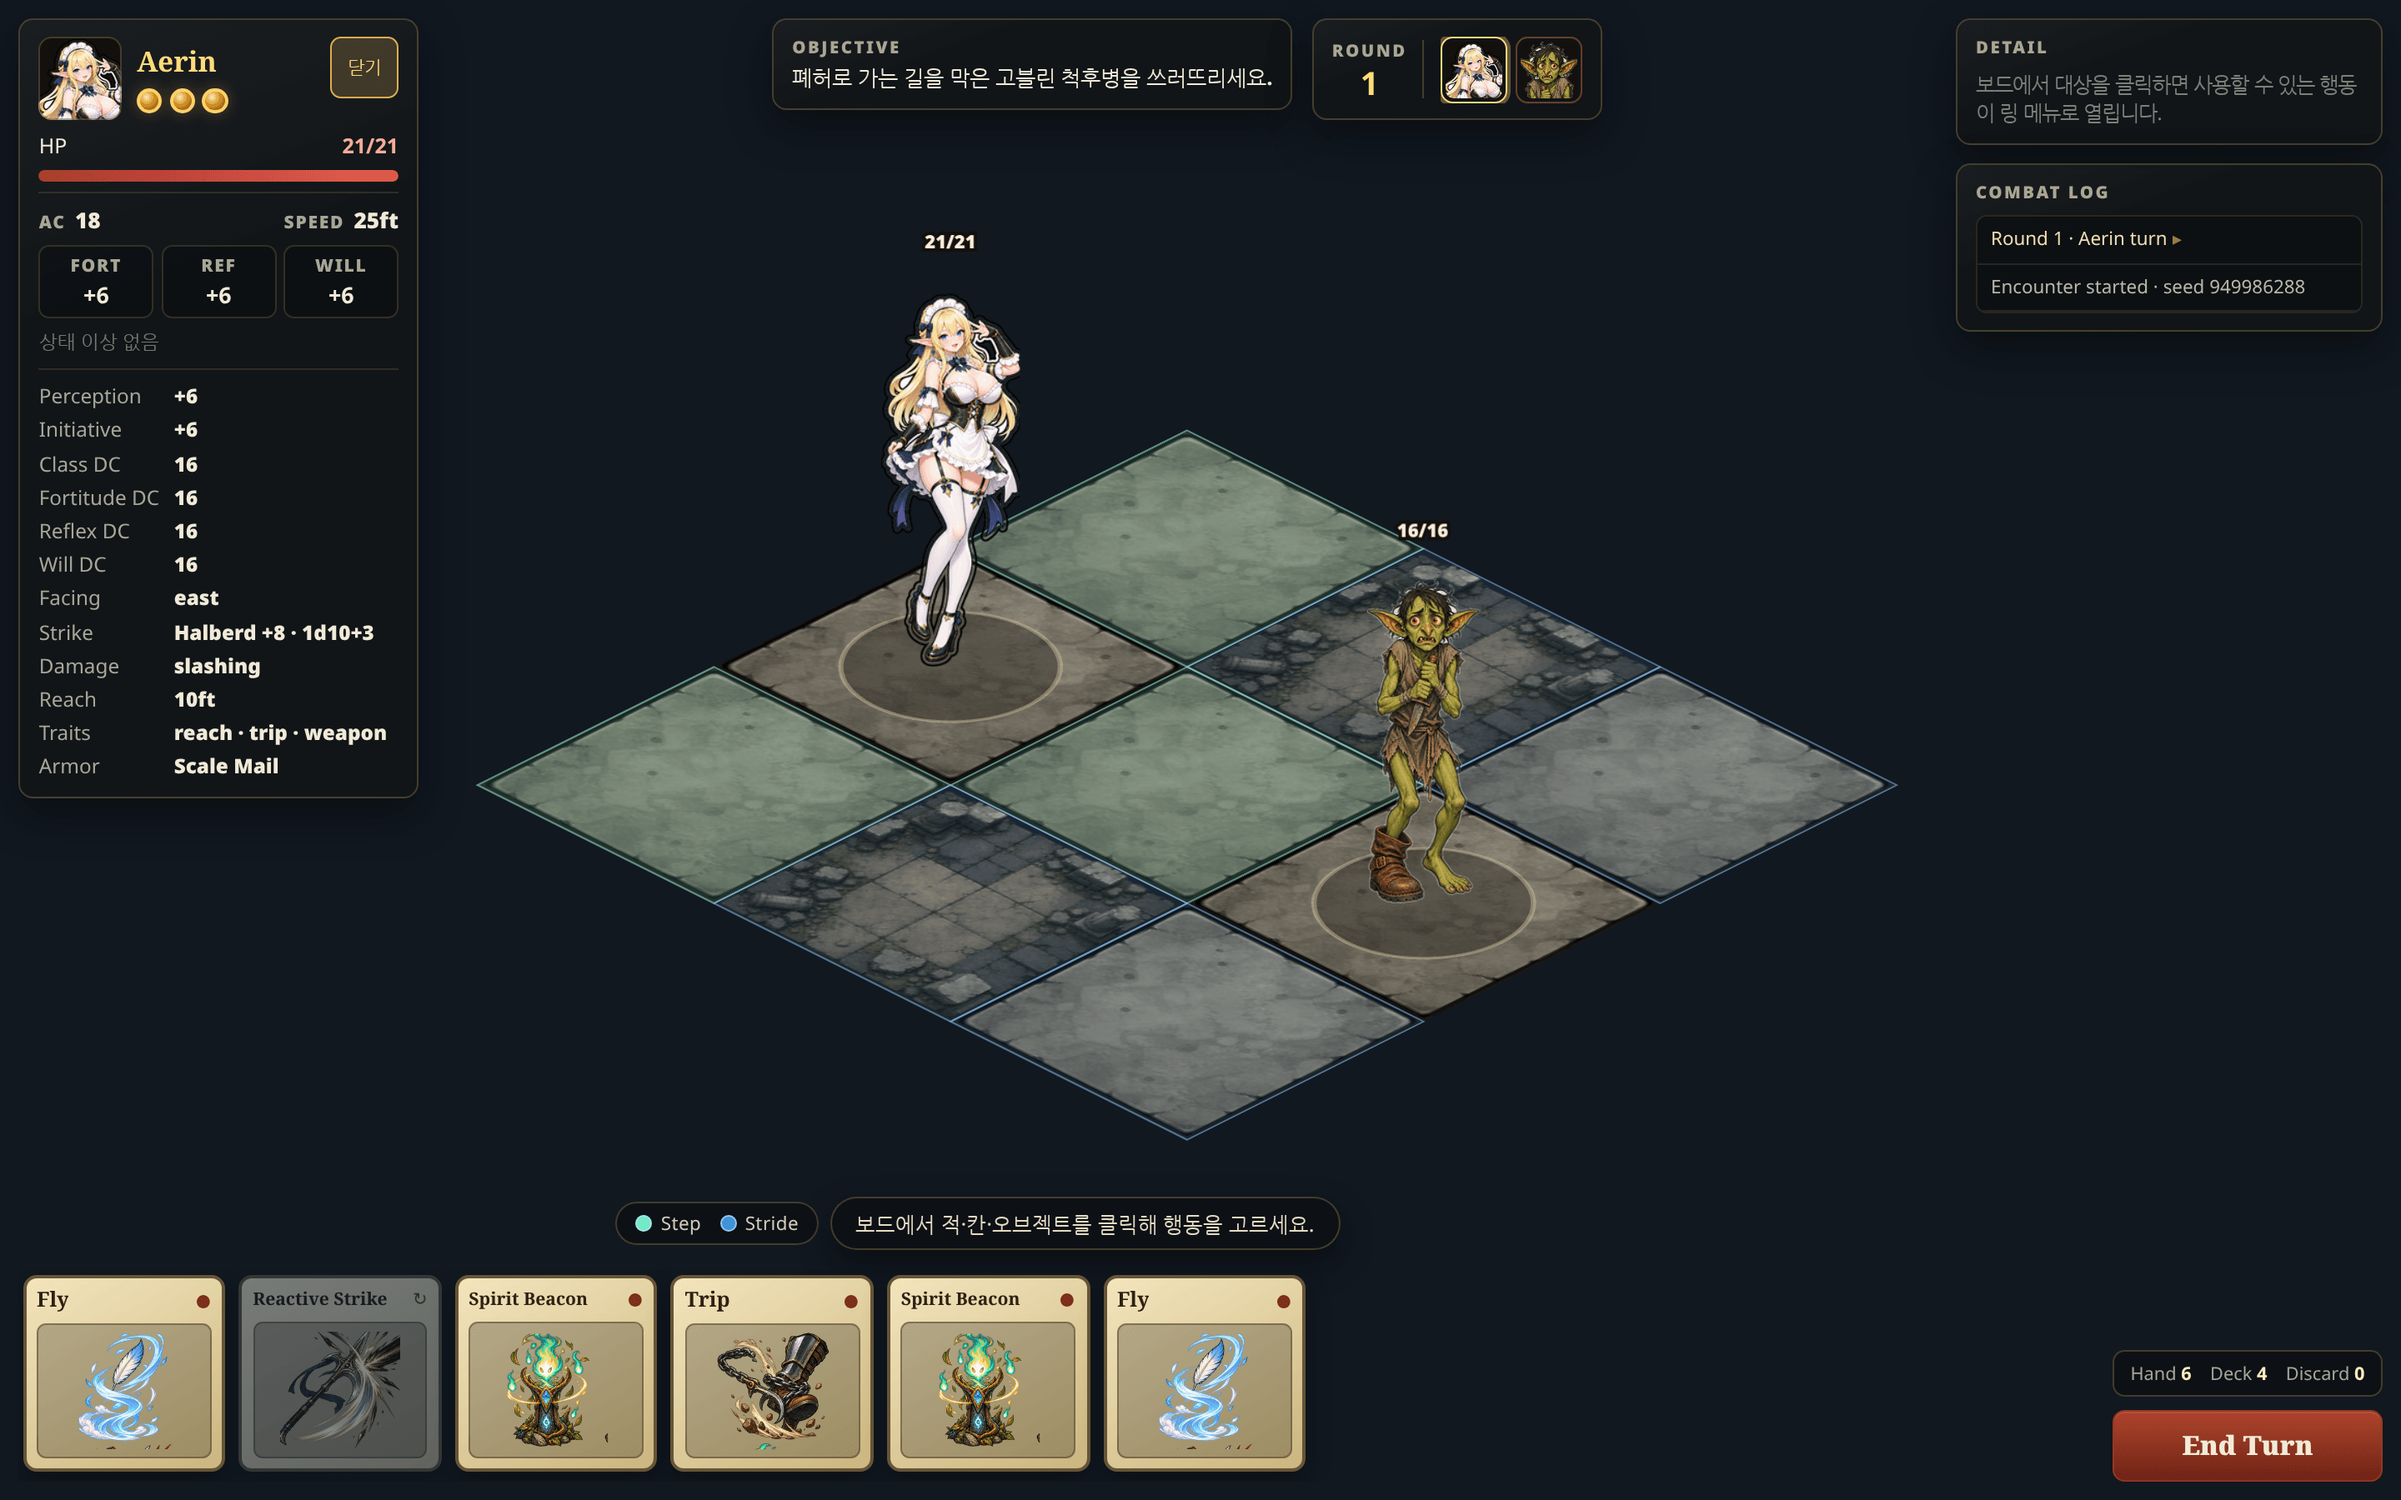
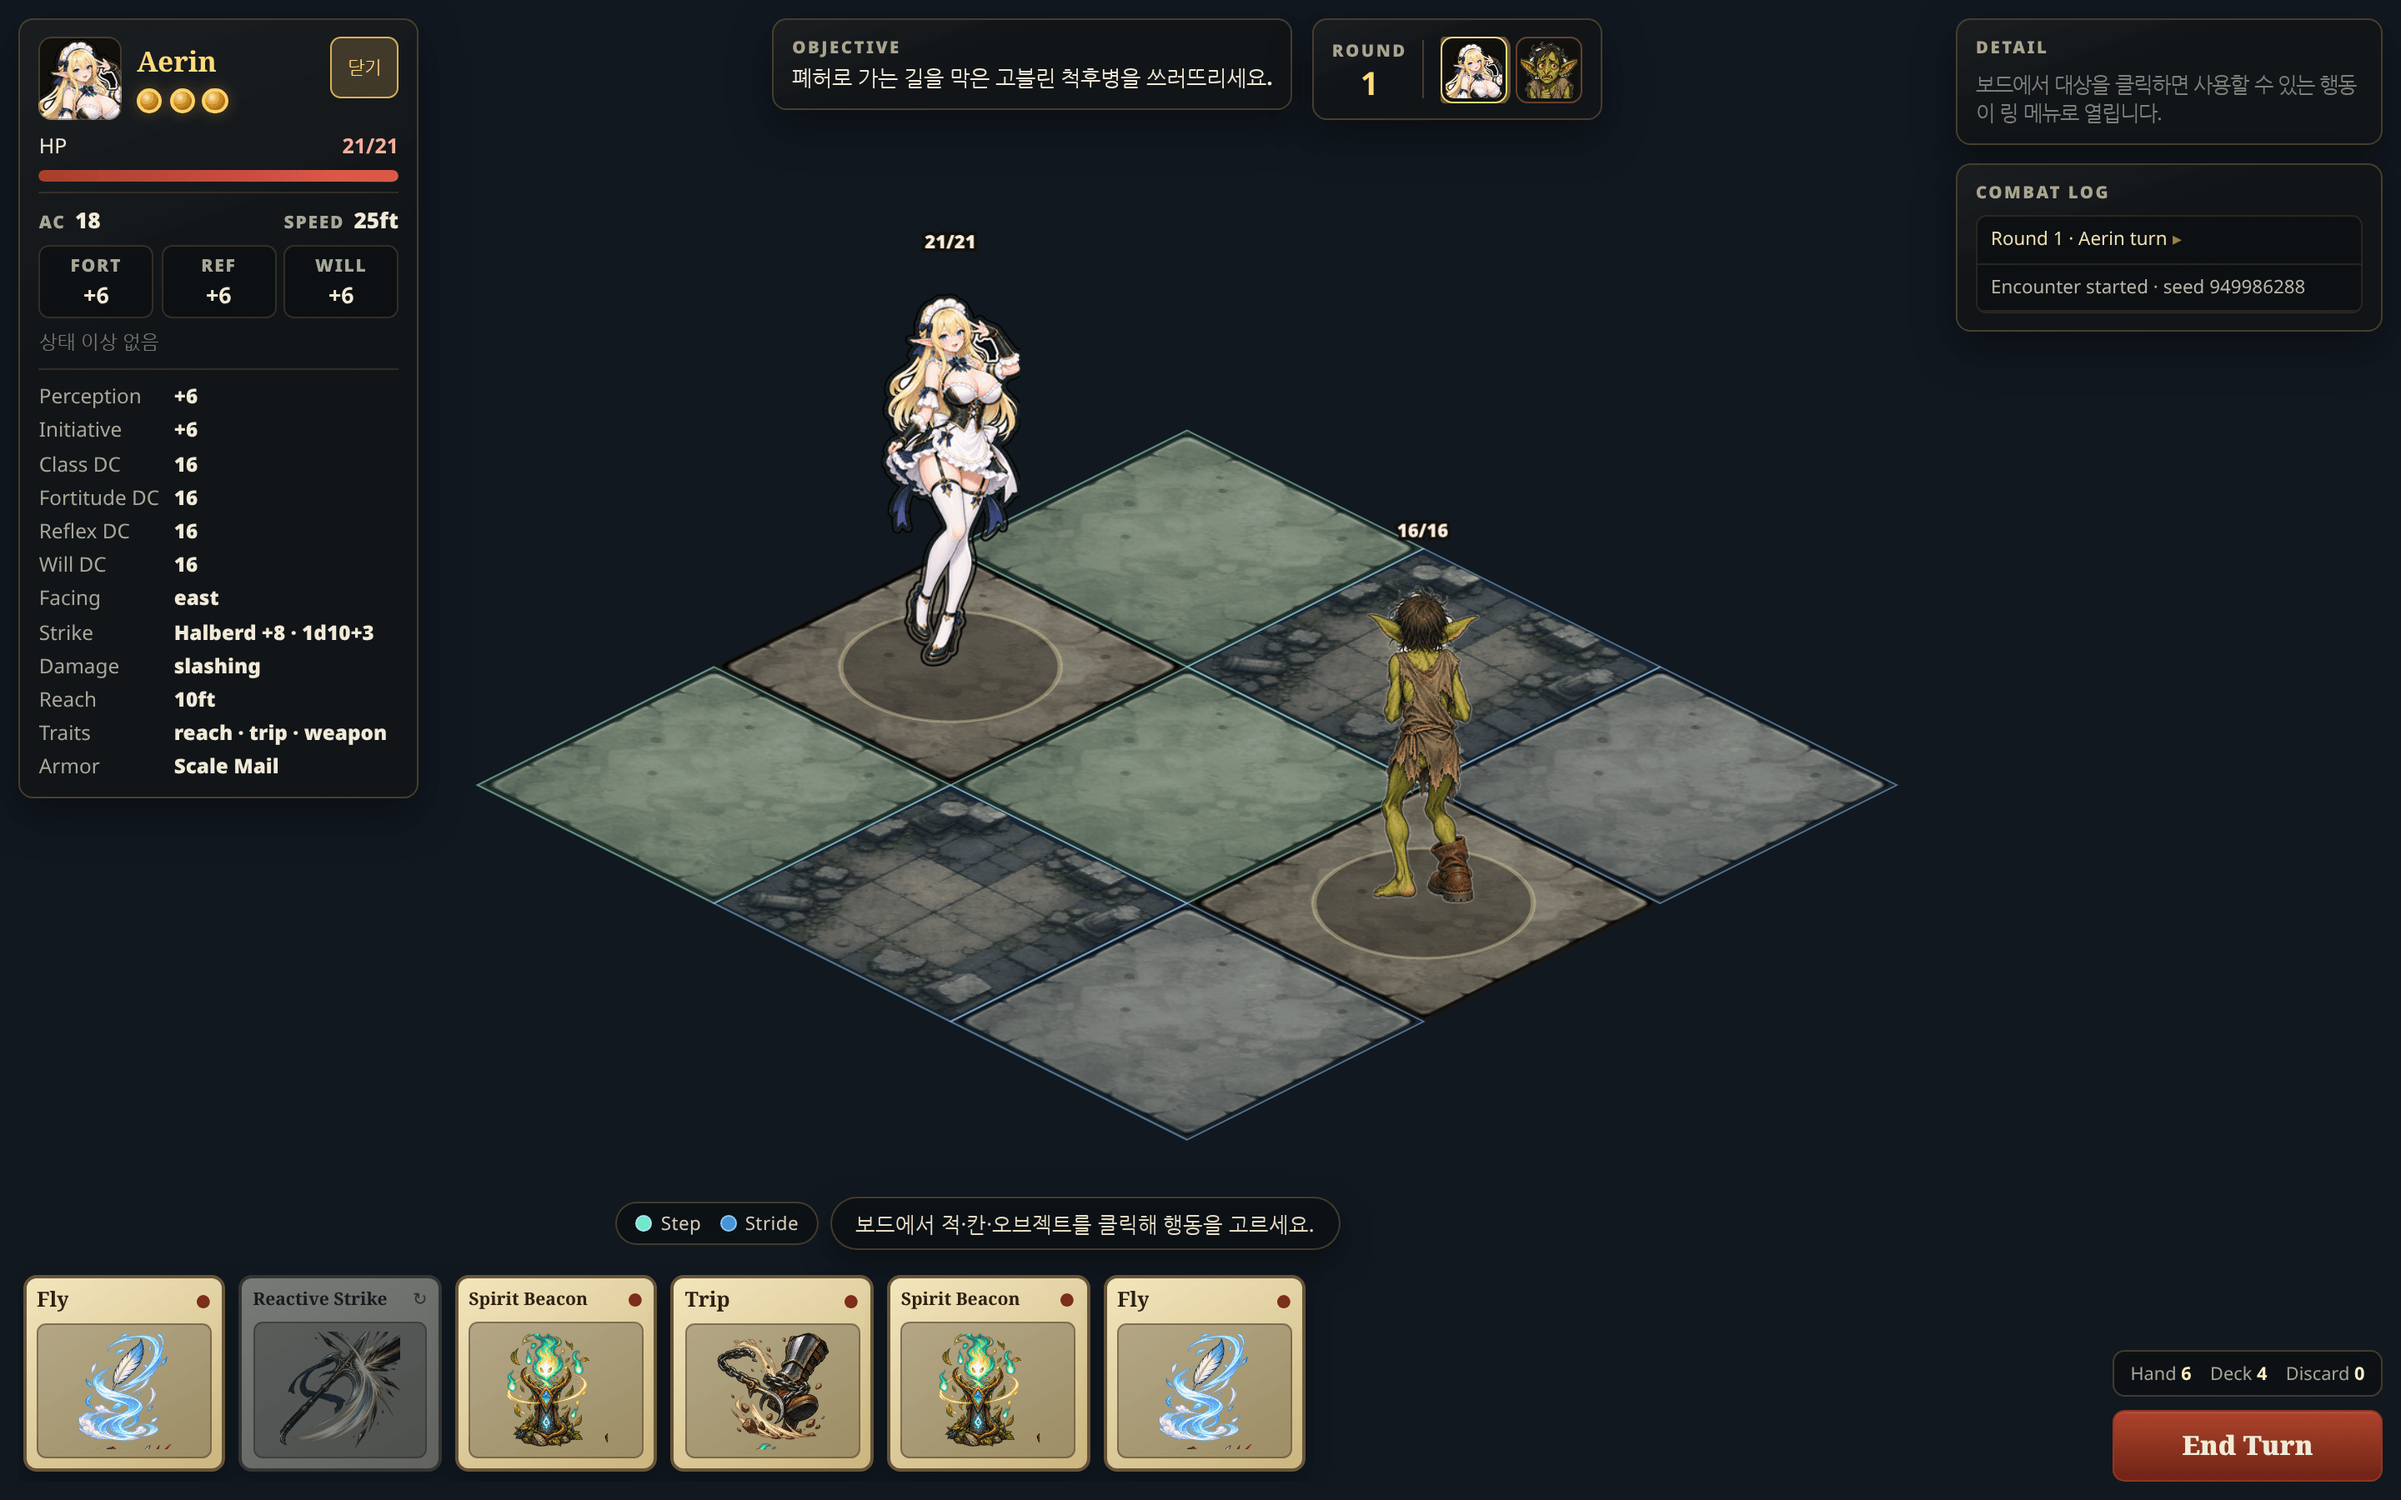
fix: pair the standee facings the way the turned board points them
The four facings were split front/back as if the camera looked straight down the
grid: north alone showed the back, and east, south and west shared the front.
On a board turned a quarter turn that is the wrong split. North leads up-right
and west up-left, so both walk away from the player; east runs down-right and
south down-left, so both come towards them. A character heading west was drawn
facing the camera while walking into the screen.

The pairs now follow the screen: north is the back and west is that mirrored,
east is the front and south is that mirrored. Mirroring still touches nothing
but the body.

Changed region(s): [[0.5625, 0.3733, 0.625, 0.6222]]

diff --git a/src/presentation/standee-facing.test.ts b/src/presentation/standee-facing.test.ts
@@ -5,18 +5,19 @@ import { facingStandee } from "./presentation-types";
 const AERIN = { front: "actor.hero.aerin.front", back: "actor.hero.aerin.back" };
 
 describe("standee facing", () => {
-  it("turns its back only for north", () => {
-    expect(facingStandee(AERIN, "north")).toEqual({ assetId: AERIN.back, flipX: false });
-    for (const direction of ["south", "east", "west"] as const) {
-      expect(facingStandee(AERIN, direction).assetId).toBe(AERIN.front);
-    }
+  it("turns its back for the two directions that lead away from the player", () => {
+    // A quarter turn puts north up-right and west up-left: both walk away, so both show
+    // the back. East and south come down the screen towards the player.
+    expect(facingStandee(AERIN, "north").assetId).toBe(AERIN.back);
+    expect(facingStandee(AERIN, "west").assetId).toBe(AERIN.back);
+    expect(facingStandee(AERIN, "east").assetId).toBe(AERIN.front);
+    expect(facingStandee(AERIN, "south").assetId).toBe(AERIN.front);
   });
 
-  it("mirrors west and leaves the authored east pose alone", () => {
-    expect(facingStandee(AERIN, "east").flipX).toBe(false);
-    expect(facingStandee(AERIN, "west").flipX).toBe(true);
-    // South is the pose the art was drawn as, so it is never mirrored either.
-    expect(facingStandee(AERIN, "south").flipX).toBe(false);
-    expect(facingStandee(AERIN, "north").flipX).toBe(false);
+  it("mirrors the second of each pair and leaves the authored pose alone", () => {
+    expect(facingStandee(AERIN, "north")).toEqual({ assetId: AERIN.back, flipX: false });
+    expect(facingStandee(AERIN, "west")).toEqual({ assetId: AERIN.back, flipX: true });
+    expect(facingStandee(AERIN, "east")).toEqual({ assetId: AERIN.front, flipX: false });
+    expect(facingStandee(AERIN, "south")).toEqual({ assetId: AERIN.front, flipX: true });
   });
 });

diff --git a/src/presentation/presentation-types.ts b/src/presentation/presentation-types.ts
@@ -126,14 +126,20 @@ export interface StandeeFacing {
 }
 
 /**
- * Four facings out of the two drawings that exist. North turns its back; south faces the
- * player. East and west share the front pose, and west is its mirror — the front art was
- * authored leaning towards the board's east side, so that is the side it keeps.
+ * Four facings out of the two drawings that exist, paired by which way they point on the
+ * turned board. A quarter turn puts north up-right and west up-left, so both face away
+ * from the player and take the back drawing; east runs down-right and south down-left,
+ * so both face towards the player and take the front. Within each pair the second is the
+ * first seen in a mirror, which is what carries the pose to the other side of the screen.
+ *
+ *   north -> back            west  -> back mirrored
+ *   east  -> front           south -> front mirrored
  *
  * Only the body is ever mirrored. A base, an HP badge or any text above a standee is
  * screen furniture and reads the same way whichever way the character looks.
  */
 export function facingStandee(visual: ActorVisualDefinition, direction: Direction): StandeeFacing {
   if (direction === "north") return { assetId: visual.back, flipX: false };
-  return { assetId: visual.front, flipX: direction === "west" };
+  if (direction === "west") return { assetId: visual.back, flipX: true };
+  return { assetId: visual.front, flipX: direction === "south" };
 }

diff --git a/docs/ui-review/index.html b/docs/ui-review/index.html
@@ -44,7 +44,7 @@
   </nav>
   <main>
     <article class="viewport" data-viewport="1440x900" hidden>
-    <p class="captured">데스크톱 기준 해상도 · 원본 2026-09-03 11:54 · 변경 2026-09-06 06:57</p>
+    <p class="captured">데스크톱 기준 해상도 · 원본 2026-09-03 11:54 · 변경 2026-09-06 13:19</p>
     <section class="screen" id="shot-1440x900-session-lobby">
       <header>
         <h3><span class="ordinal">01</span>세션 로비 (진입 화면)</h3>
@@ -285,7 +285,7 @@
     </section>
   </article>
     <article class="viewport" data-viewport="1024x768" hidden>
-    <p class="captured">지원 최소 해상도 · 원본 2026-09-03 11:54 · 변경 2026-09-06 06:57</p>
+    <p class="captured">지원 최소 해상도 · 원본 2026-09-03 11:54 · 변경 2026-09-06 13:20</p>
     <section class="screen" id="shot-1024x768-session-lobby">
       <header>
         <h3><span class="ordinal">01</span>세션 로비 (진입 화면)</h3>
